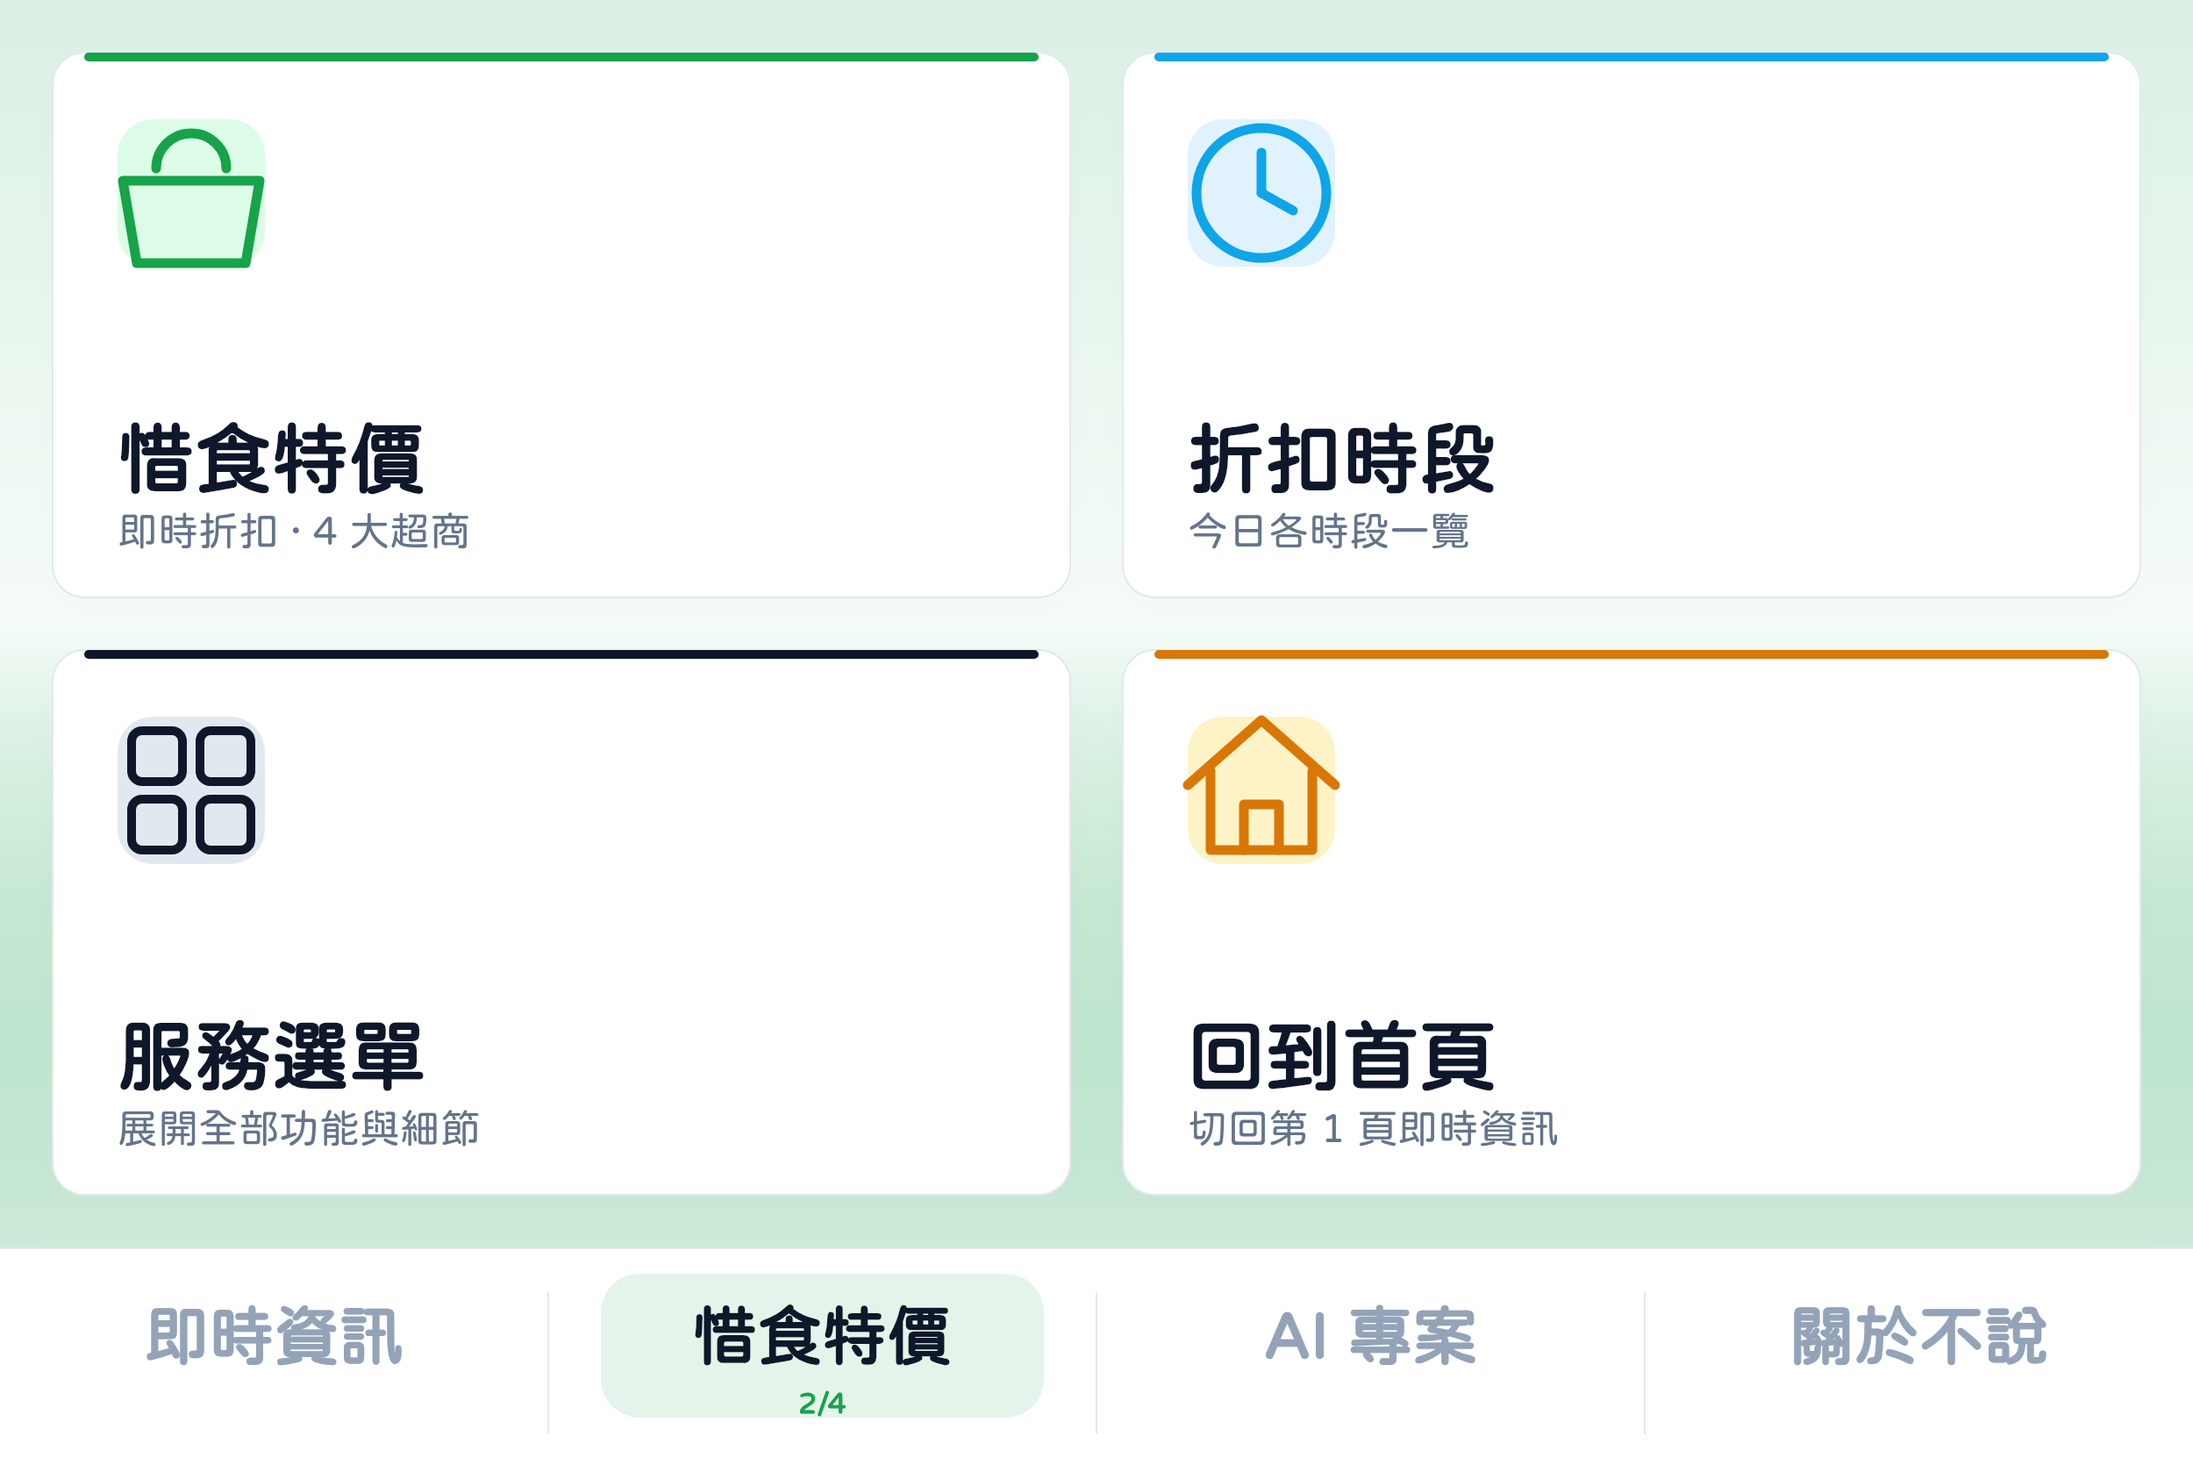
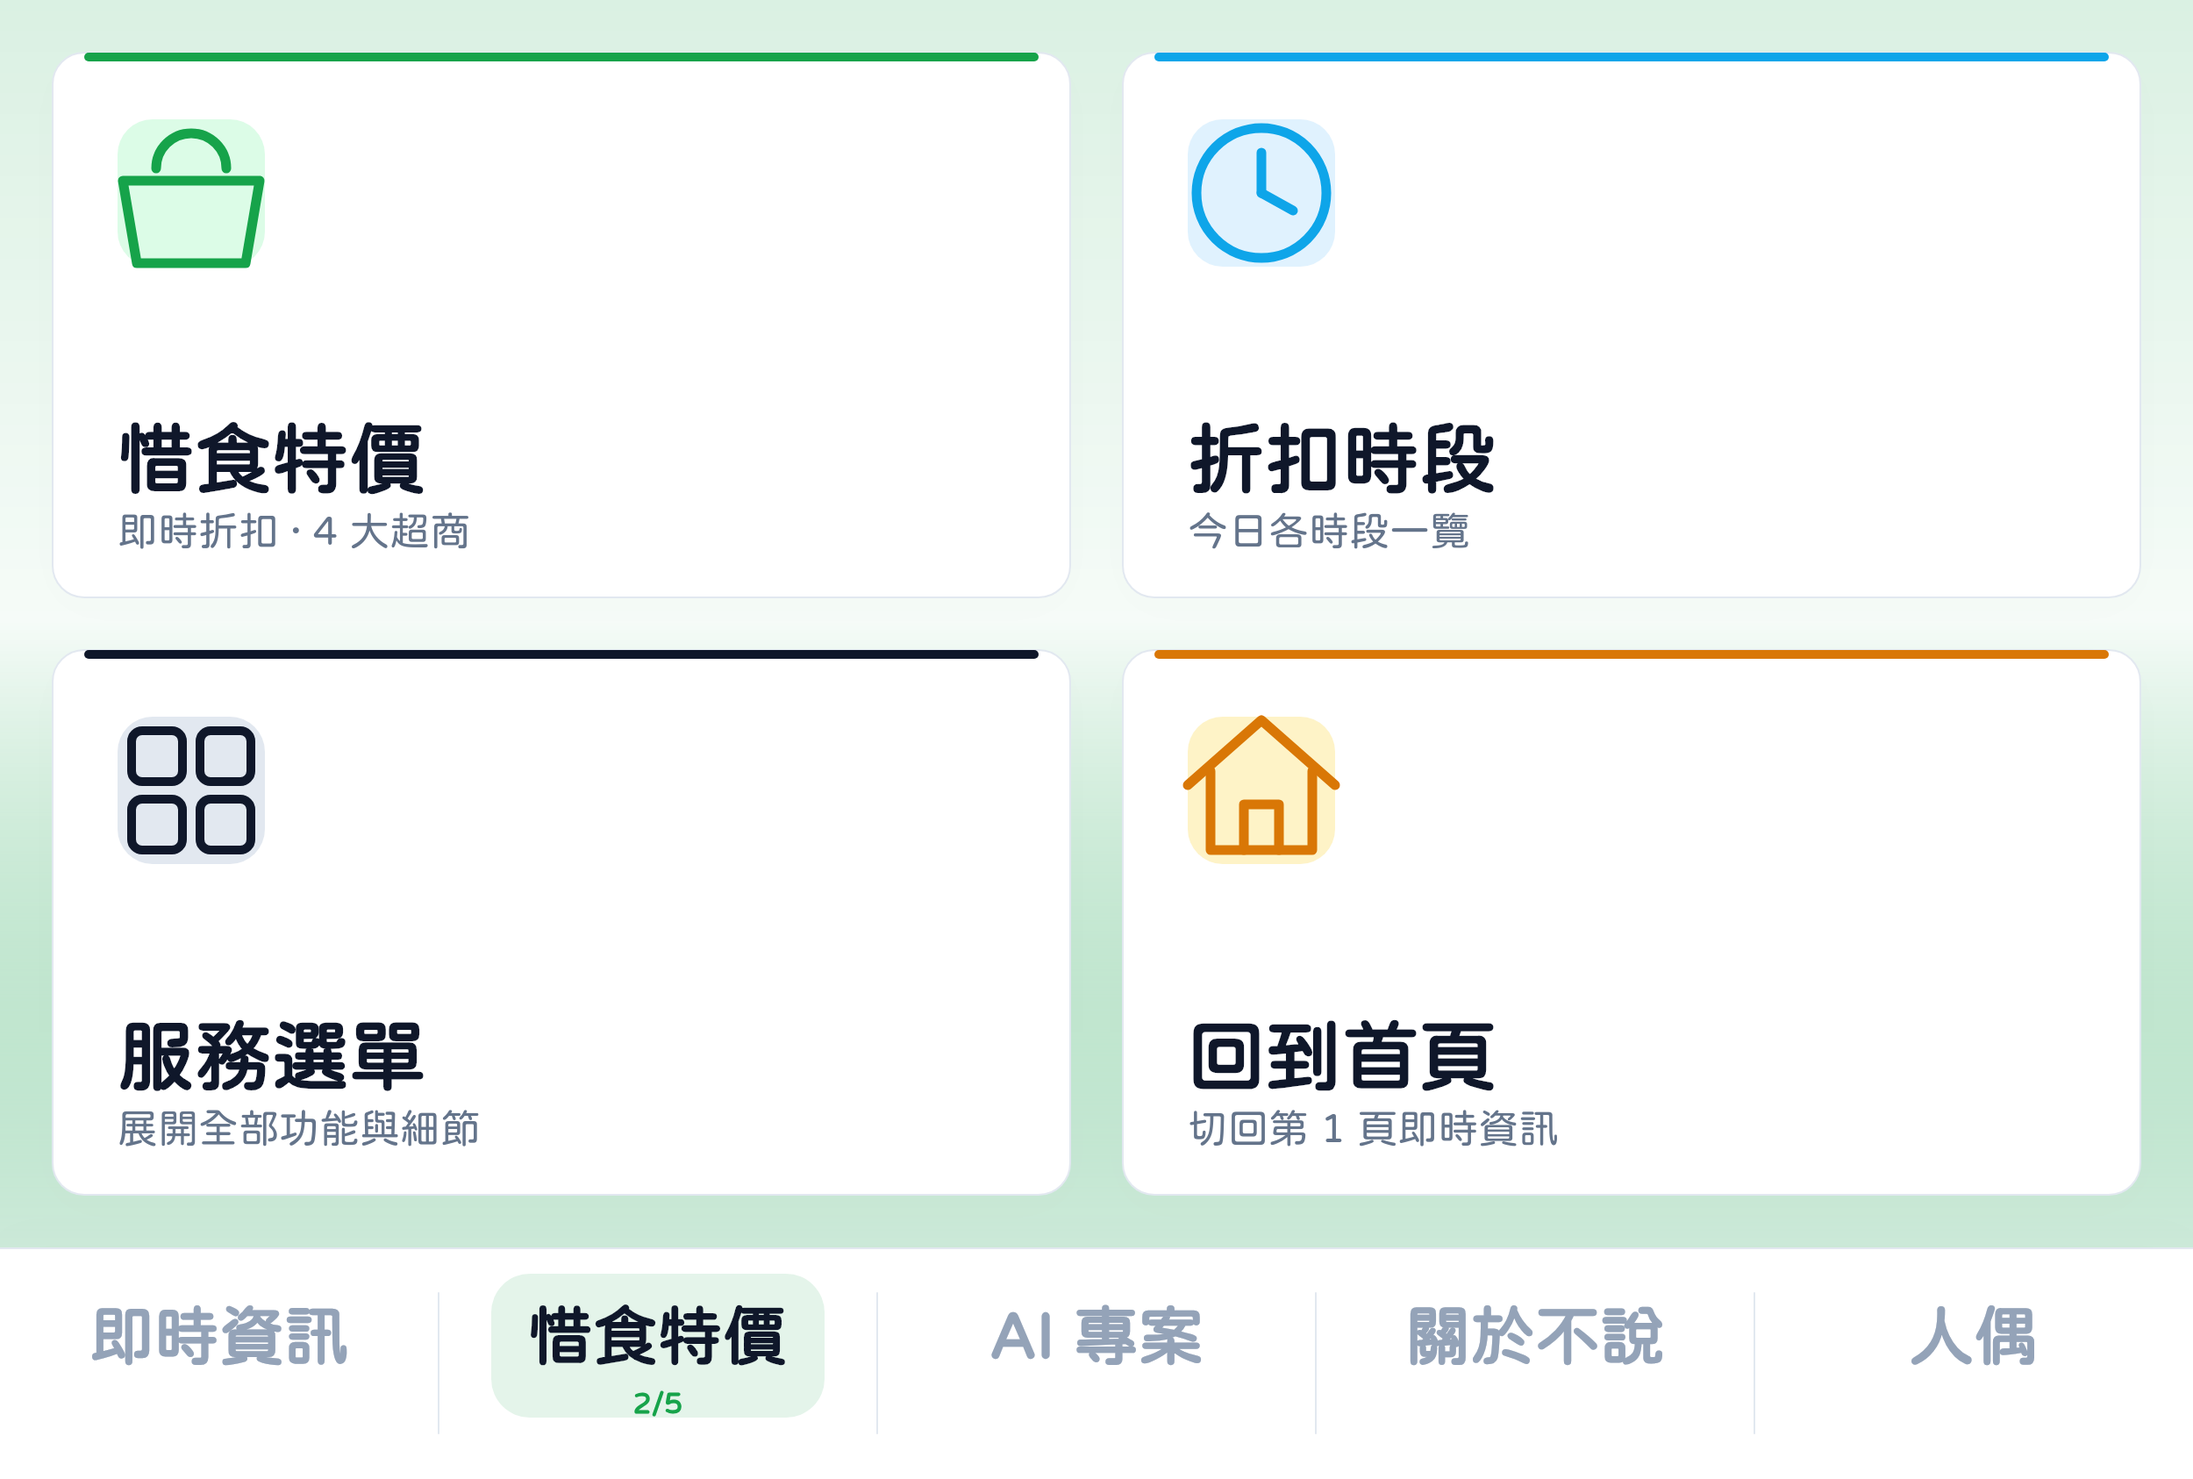
LINE 人偶第 3 項：Rich menu 加人偶頁（六隻 3×2，點一隻進介紹卡）
- setup-line-richmenu.ts 加第 5 頁「人偶」（alias bot-dolls，大圖 2500×1686，
  與既有 4 頁一致；六隻人偶 3×2，圖用網站 3D 頁同一批 800×800 渲染圖）
- 格數改動態算（既有頁 2×2 尺寸不變 1160×621，人偶頁 753×621）
- 每隻點了送 postback s=char&id=<id>，進該隻介紹卡（router 已有對應處理）
- characters.ts 補小豬（55.9K tris / 0.2MB，網站實測數據），「五隻」→「六隻」
- 新增 .github/workflows/publish-richmenu.yml：手動觸發，token 從 Render
  env var 取（RENDER_API_KEY secret，runner 內遮罩，不進 repo），發完用
  SHA256 複驗 5 頁圖片與預設頁

Changed region(s): [[0.2184, 0.8636, 0.78, 0.9561], [0.0312, 0.8636, 0.1872, 0.9253], [0.8112, 0.8636, 0.936, 0.9253]]

diff --git a/scripts/src/setup-line-richmenu.ts b/scripts/src/setup-line-richmenu.ts
@@ -1,7 +1,7 @@
 import { readFileSync, writeFileSync } from "node:fs";
 import { fileURLToPath } from "node:url";
 import { dirname, join } from "node:path";
-import { createCanvas, GlobalFonts, type SKRSContext2D } from "@napi-rs/canvas";
+import { createCanvas, GlobalFonts, loadImage, type SKRSContext2D } from "@napi-rs/canvas";
 
 const __dirname = dirname(fileURLToPath(import.meta.url));
 const ASSETS = join(__dirname, "..", "assets");
@@ -12,8 +12,6 @@ const W = 2500;
 const H = 1686;
 const TAB_H = 264;
 const G = 60;
-const COL_W = (W - G * 3) / 2; // 1160
-const ROW_H = (H - TAB_H - G * 3) / 2; // 621
 
 const CANVAS_BG = "#F8FAFC";
 const CARD_BG = "#FFFFFF";
@@ -34,7 +32,10 @@ interface Tile {
   subtitle: string;
   accent: string;
   tint: string;
-  icon: IconFn;
+  /** 線條 icon(預設);有 image 時改畫人偶 PNG,不畫 icon chip */
+  icon?: IconFn;
+  /** 人偶 PNG(相對於 scripts/assets/,例如 "characters/corgi.png") */
+  image?: string;
   action: Record<string, unknown>;
 }
 
@@ -44,6 +45,8 @@ interface Tab {
   accent: string;
   alias: string;
   tiles: Tile[];
+  /** 每列幾格(預設 2);人偶頁 3 格 × 2 列放六隻 */
+  cols?: number;
 }
 
 // ── drawing helpers ────────────────────────────────────────────────
@@ -306,15 +309,47 @@ const TABS: Tab[] = [
       { title: "官方網站", subtitle: "完整作品集都在這", accent: "#2563EB", tint: "#DBEAFE", icon: globeIcon, action: { type: "uri", uri: WEBSITE_URL } },
     ],
   },
+  {
+    // 第 3 項 Rich menu 人偶圖(2026-11-19):六隻人偶 3×2,點一隻進介紹卡
+    // (postback s=char&id=<id>,router.ts routePostback 已有對應處理)。
+    // 人偶圖跟網站 3D 頁、LINE 輪播同一批 800×800 渲染圖,放 scripts/assets/characters/。
+    key: "dolls",
+    label: "人偶",
+    accent: "#EC4899",
+    alias: "bot-dolls",
+    cols: 3,
+    tiles: [
+      { title: "香菇柯基", subtitle: "網站吉祥物，戴菇帽的柯基", accent: "#D97706", tint: "#FEF3C7", image: "characters/corgi.png", action: { type: "postback", data: "s=char&id=corgi", displayText: "看香菇柯基的介紹" } },
+      { title: "綠機器人", subtitle: "軍綠裝甲，單顆青藍大眼", accent: "#16A34A", tint: "#DCFCE7", image: "characters/robot.png", action: { type: "postback", data: "s=char&id=robot", displayText: "看綠機器人的介紹" } },
+      { title: "哲學家", subtitle: "白髮白鬍，月桂冠老者", accent: "#2563EB", tint: "#DBEAFE", image: "characters/philosopher.png", action: { type: "postback", data: "s=char&id=philosopher", displayText: "看哲學家的介紹" } },
+      { title: "黑貓", subtitle: "黃眼粉鼻，雙臂交叉", accent: "#334155", tint: "#E2E8F0", image: "characters/cat.png", action: { type: "postback", data: "s=char&id=cat", displayText: "看黑貓的介紹" } },
+      { title: "水晶怪", subtitle: "淺藍多面體小怪", accent: "#0EA5E9", tint: "#E0F2FE", image: "characters/crystal.png", action: { type: "postback", data: "s=char&id=crystal", displayText: "看水晶怪的介紹" } },
+      { title: "小豬", subtitle: "粉紅身體，橢圓豬鼻垂耳捲尾", accent: "#EC4899", tint: "#FCE7F3", image: "characters/pig.png", action: { type: "postback", data: "s=char&id=pig", displayText: "看小豬的介紹" } },
+    ],
+  },
 ];
 
 // 卡片從畫面最上方開始排；tab bar 固定在**底部**(thumb reach,也跟截圖一致)
-const CELL_XY: [number, number][] = [
-  [G, G],
-  [G + COL_W + G, G],
-  [G, G + ROW_H + G],
-  [G + COL_W + G, G + ROW_H + G],
-];
+// 每頁格數由 tab.cols 決定(預設 2×2;人偶頁 3×2),格寬/列高依格數動態算,
+// 這樣既有頁的 1160×621 尺寸不變,人偶頁拿到 753×621。
+interface CellLayout {
+  colW: number;
+  rowH: number;
+  xy: [number, number][];
+}
+
+function cellLayout(tab: Tab): CellLayout {
+  const cols = tab.cols ?? 2;
+  const rows = Math.ceil(tab.tiles.length / cols);
+  const colW = (W - G * (cols + 1)) / cols;
+  const rowH = (H - TAB_H - G * (rows + 1)) / rows;
+  const xy: [number, number][] = tab.tiles.map((_, i) => {
+    const col = i % cols;
+    const row = Math.floor(i / cols);
+    return [G + col * (colW + G), G + row * (rowH + G)];
+  });
+  return { colW, rowH, xy };
+}
 
 // ── rendering ──────────────────────────────────────────────────────
 // hex → rgba(r,g,b,a),漸層背景要帶透明度
@@ -384,24 +419,24 @@ function renderTabBar(ctx: SKRSContext2D, activeIndex: number): void {
   });
 }
 
-function renderCard(ctx: SKRSContext2D, px: number, py: number, t: Tile): void {
+function renderCard(ctx: SKRSContext2D, px: number, py: number, colW: number, rowH: number, t: Tile): void {
   // 陰影
   ctx.save();
   ctx.shadowColor = "rgba(15, 23, 42, 0.08)";
   ctx.shadowBlur = 44;
   ctx.shadowOffsetY = 12;
-  rrPath(ctx, px, py, COL_W, ROW_H, 36);
+  rrPath(ctx, px, py, colW, rowH, 36);
   ctx.fillStyle = CARD_BG;
   ctx.fill();
   ctx.restore();
 
-  rrPath(ctx, px, py, COL_W, ROW_H, 36);
+  rrPath(ctx, px, py, colW, rowH, 36);
   ctx.strokeStyle = HAIRLINE;
   ctx.lineWidth = 2;
   ctx.stroke();
 
   // 頂端一條 accent 細線,當成卡片的主色識別
-  rrPath(ctx, px + 36, py, COL_W - 72, 10, 5);
+  rrPath(ctx, px + 36, py, colW - 72, 10, 5);
   ctx.fillStyle = t.accent;
   ctx.fill();
 
@@ -411,23 +446,68 @@ function renderCard(ctx: SKRSContext2D, px: number, py: number, t: Tile): void {
   rrPath(ctx, chipX, chipY, chip, chip, 40);
   ctx.fillStyle = t.tint;
   ctx.fill();
-  t.icon(ctx, chipX + chip / 2, chipY + chip / 2, t.accent);
+  t.icon?.(ctx, chipX + chip / 2, chipY + chip / 2, t.accent);
 
   ctx.textAlign = "left";
   ctx.textBaseline = "alphabetic";
   ctx.fillStyle = INK;
   ctx.font = `bold 88px ${FONT_FAMILY}`;
-  ctx.fillText(t.title, px + 74, py + ROW_H - 128);
+  ctx.fillText(t.title, px + 74, py + rowH - 128);
   ctx.fillStyle = SUB;
   ctx.font = `46px ${FONT_FAMILY}`;
-  ctx.fillText(t.subtitle, px + 74, py + ROW_H - 60);
+  ctx.fillText(t.subtitle, px + 74, py + rowH - 60);
 }
 
-function renderTab(activeIndex: number): Buffer {
+/** 人偶卡:人偶 PNG 置中大圖 + 名字/一句話置中(人偶頁 3×2 專用)。 */
+function renderDollCard(
+  ctx: SKRSContext2D,
+  px: number,
+  py: number,
+  colW: number,
+  rowH: number,
+  t: Tile,
+  img: Parameters<SKRSContext2D["drawImage"]>[0],
+): void {
+  ctx.save();
+  ctx.shadowColor = "rgba(15, 23, 42, 0.08)";
+  ctx.shadowBlur = 44;
+  ctx.shadowOffsetY = 12;
+  rrPath(ctx, px, py, colW, rowH, 36);
+  ctx.fillStyle = CARD_BG;
+  ctx.fill();
+  ctx.restore();
+
+  rrPath(ctx, px, py, colW, rowH, 36);
+  ctx.strokeStyle = HAIRLINE;
+  ctx.lineWidth = 2;
+  ctx.stroke();
+
+  rrPath(ctx, px + 36, py, colW - 72, 10, 5);
+  ctx.fillStyle = t.accent;
+  ctx.fill();
+
+  // 人偶圖置中:取 min(格寬-80,列高-240),保持 1:1
+  const size = Math.min(colW - 80, rowH - 240);
+  const ix = px + (colW - size) / 2;
+  const iy = py + 36;
+  ctx.drawImage(img, ix, iy, size, size);
+
+  ctx.textAlign = "center";
+  ctx.textBaseline = "alphabetic";
+  ctx.fillStyle = INK;
+  ctx.font = `bold 68px ${FONT_FAMILY}`;
+  ctx.fillText(t.title, px + colW / 2, py + rowH - 108);
+  ctx.fillStyle = SUB;
+  ctx.font = `40px ${FONT_FAMILY}`;
+  ctx.fillText(t.subtitle, px + colW / 2, py + rowH - 52);
+}
+
+async function renderTab(activeIndex: number): Promise<Buffer> {
   GlobalFonts.register(readFileSync(FONT_PATH), FONT_FAMILY);
   const canvas = createCanvas(W, H);
   const ctx = canvas.getContext("2d");
-  const accent = TABS[activeIndex].accent;
+  const tab = TABS[activeIndex];
+  const accent = tab.accent;
 
   // 由 accent 淡出的垂直漸層,比純色背景有層次
   const grad = ctx.createLinearGradient(0, 0, 0, H);
@@ -437,10 +517,17 @@ function renderTab(activeIndex: number): Buffer {
   ctx.fillStyle = grad;
   ctx.fillRect(0, 0, W, H);
 
-  TABS[activeIndex].tiles.forEach((t, i) => {
-    const [px, py] = CELL_XY[i];
-    renderCard(ctx, px, py, t);
-  });
+  const layout = cellLayout(tab);
+  for (let i = 0; i < tab.tiles.length; i++) {
+    const t = tab.tiles[i];
+    const [px, py] = layout.xy[i];
+    if (t.image) {
+      const img = await loadImage(join(ASSETS, t.image));
+      renderDollCard(ctx, px, py, layout.colW, layout.rowH, t, img);
+    } else {
+      renderCard(ctx, px, py, layout.colW, layout.rowH, t);
+    }
+  }
   renderTabBar(ctx, activeIndex);
   return canvas.toBuffer("image/png");
 }
@@ -458,9 +545,10 @@ function areasFor(activeIndex: number): Area[] {
     bounds: { x: i * segW, y: barTop, width: segW, height: TAB_H },
     action: { type: "richmenuswitch", richMenuAliasId: tab.alias, data: `switch=${tab.key}` },
   }));
+  const layout = cellLayout(TABS[activeIndex]);
   TABS[activeIndex].tiles.forEach((t, i) => {
-    const [x, y] = CELL_XY[i];
-    areas.push({ bounds: { x, y, width: COL_W, height: ROW_H }, action: t.action });
+    const [x, y] = layout.xy[i];
+    areas.push({ bounds: { x, y, width: layout.colW, height: layout.rowH }, action: t.action });
   });
   return areas;
 }
@@ -626,7 +714,8 @@ async function publishRichMenus(images: Buffer[]): Promise<void> {
 }
 
 async function main(): Promise<void> {
-  const images = TABS.map((_, i) => renderTab(i));
+  const images: Buffer[] = [];
+  for (let i = 0; i < TABS.length; i++) images.push(await renderTab(i));
   TABS.forEach((tab, i) => {
     const p = join(ASSETS, `richmenu-${tab.key}.png`);
     writeFileSync(p, images[i]);

diff --git a/artifacts/api-server/src/lib/services/characters.ts b/artifacts/api-server/src/lib/services/characters.ts
@@ -1,8 +1,9 @@
-// characters.ts — LINE 人偶卡片:五隻 3D 角色的 Flex 輪播 + 單隻介紹 + 開場大圖。
+// characters.ts — LINE 人偶卡片:六隻 3D 角色的 Flex 輪播 + 單隻介紹 + 開場大圖。
 //
-// 第 1 項:主選單「🎭 人偶」→ 五隻輪播(charactersCarousel)、點一隻看介紹(characterDetail)。
+// 第 1 項:主選單「🎭 人偶」→ 六隻輪播(charactersCarousel)、點一隻看介紹(characterDetail)。
 // 第 2 項:加好友 follow 事件的開場大圖(charactersWelcome)——香菇柯基大圖 hero,
-//         點圖或按鈕都進五隻輪播;跟在主選單、即時快報之前送出。
+//         點圖或按鈕都進六隻輪播;跟在主選單、即時快報之前送出。
+// 第 3 項:Rich menu 人偶頁(bot-dolls)——六隻人偶 3×2,點一隻進介紹(s=char&id=<id>)。
 //
 // 圖片是網站上公開的渲染圖(跟 3D 頁、右下角浮動人偶同一批角色):
 //   https://donttalk.vercel.app/images/characters/<id>.png
@@ -57,8 +58,16 @@ const CHARACTERS: Character[] = [
     name: "水晶怪",
     emoji: "💎",
     tagline: "淺藍多面體小怪",
-    desc: "淺藍多面體小怪。黑色圓眼睛、微笑小嘴，有手臂和雙腿，五隻裡最小、最輕的一隻。",
+    desc: "淺藍多面體小怪。黑色圓眼睛、微笑小嘴，有手臂和雙腿，六隻裡最小、最輕的一隻。",
     stats: "Blender 程序化 · 3.3 K 三角面 · 39 KB",
+  },
+  {
+    id: "pig",
+    name: "小豬",
+    emoji: "🐷",
+    tagline: "粉紅身體，橢圓豬鼻垂耳捲尾",
+    desc: "粉紅身體、橢圓豬鼻、垂耳捲尾的小豬，黑珠眼睛帶白高光，六隻裡最新加入的一隻。",
+    stats: "Blender 程序化 · 55.9 K 三角面 · 0.2 MB",
   },
 ];
 
@@ -144,8 +153,8 @@ export function charactersWelcome(websiteUrl: string): LineMessage[] {
           paddingAll: "20px",
           spacing: "none",
           contents: [
-            { type: "text", text: "🎭 五隻人偶在這裡等你", size: "xl", weight: "bold", color: "#0F172A", wrap: true },
-            { type: "text", text: "香菇柯基帶著四位朋友來打招呼，點圖片或按鈕，認識五隻 3D 角色。", size: "sm", color: "#64748B", margin: "sm", wrap: true },
+            { type: "text", text: "🎭 六隻人偶在這裡等你", size: "xl", weight: "bold", color: "#0F172A", wrap: true },
+            { type: "text", text: "香菇柯基帶著五位朋友來打招呼，點圖片或按鈕，認識六隻 3D 角色。", size: "sm", color: "#64748B", margin: "sm", wrap: true },
           ],
         },
         footer: {
@@ -171,7 +180,7 @@ export function charactersCarousel(websiteUrl: string): LineMessage[] {
   return [
     {
       type: "flex",
-      altText: "人偶・五隻 3D 角色",
+      altText: "人偶・六隻 3D 角色",
       contents: { type: "carousel", contents: CHARACTERS.map((c) => charBubble(c, websiteUrl)) },
     },
   ];

diff --git a/artifacts/api-server/src/lib/services/router.ts b/artifacts/api-server/src/lib/services/router.ts
@@ -431,7 +431,7 @@ export async function routeMessage(raw: string, ctx: RouteContext): Promise<Line
     return aboutMessage(ctx.introMessage, ctx.websiteUrl);
   }
 
-  // 人偶:五隻 3D 角色輪播(跟網站 3D 頁、右下角浮動人偶同一批)。
+  // 人偶:六隻 3D 角色輪播(跟網站 3D 頁、右下角浮動人偶同一批)。
   if (/人偶|角色|玩偶|doll|character/i.test(text)) {
     return withMenu(charactersCarousel(ctx.websiteUrl));
   }
@@ -522,7 +522,7 @@ export async function routePostback(data: string, ctx: RouteContext): Promise<Li
     return withMenu(proteinGuide(Number.isFinite(step) ? step : 1));
   }
 
-  // 人偶:沒 id → 五隻輪播;有 id → 該隻介紹卡。
+  // 人偶:沒 id → 六隻輪播;有 id → 該隻介紹卡。
   if (svc === "char") {
     const id = params.get("id");
     return withMenu(id ? characterDetail(id, ctx.websiteUrl) : charactersCarousel(ctx.websiteUrl));
